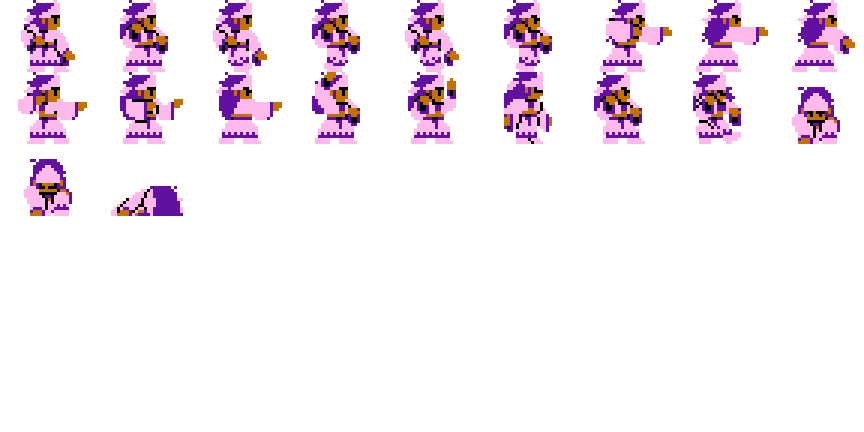
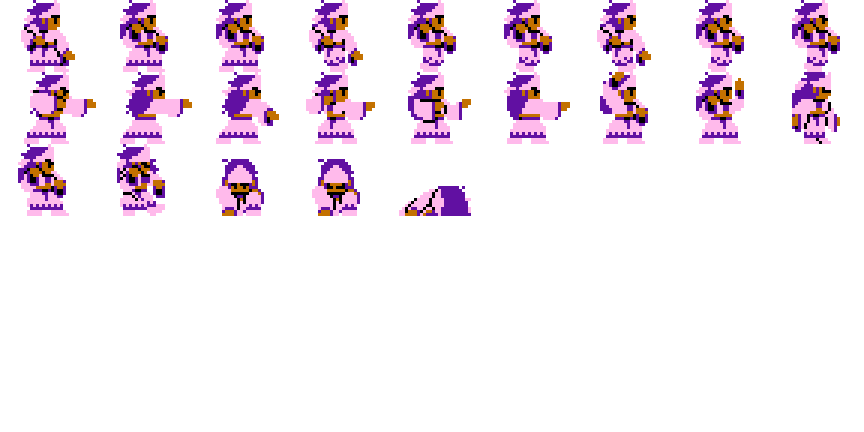
spreadsheets, some new sprites

diff --git a/js/plugins/E9D_RetroFantasy.js b/js/plugins/E9D_RetroFantasy.js
@@ -1617,9 +1617,11 @@
 		switch(this._motionType) {
 		case "wait":
 			if(stance === "low") { if(isFired) { return "waitLowFired"; } return "waitLow"; }
+			else if(stance === "choke") { return "waitChoke"; }
 			break;
 		case "thrust":
 			if(stance === "low") { if(isFired) { return "thrust2HFired"; } return "thrust2H"; }
+			else if(stance === "choke") { return "thrustChoke"; }
 			break;
 		}
 		
@@ -3970,39 +3972,47 @@
 	Sprite_Actor.POSES = {
 		waitLow: { index: 0 },
 		wait: { index: 1 },
-		walkLow: { index: 2 },
-		walk: { index: 3 },
-		chargeLow: { index: 4 },
-		charge: { index: 5 },
-		thrust2H: { index: 6 },
-		thrust: { index: 7 },
-		swing: { index: 8 },
-		bow: { index: 9 },
-		longGun: { index: 10 },
-		handGun: { index: 11 },
-		skill: { index: 12 },
-		item: { index: 13 },
-		victory: { index: 14 },
-		evade: { index: 15 },
-		damage: { index: 16 },
-		abnormal: { index: 17 },
-		sleep: { index: 18 },
-		dead: { index: 19 }
+		waitChoke: { index: 2 },
+		walkLow: { index: 3 },
+		walk: { index: 4 },
+		walkChoke: { index: 5 },
+		chargeLow: { index: 6 },
+		charge: { index: 7 },
+		chargeChoke: { index: 8 },
+		thrust2H: { index: 9 },
+		thrust: { index: 10 },
+		swing: { index: 11 },
+		bow: { index: 12 },
+		longGun: { index: 13 },
+		handGun: { index: 14 },
+		skill: { index: 15 },
+		item: { index: 16 },
+		victory: { index: 17 },
+		evade: { index: 18 },
+		damage: { index: 19 },
+		abnormal: { index: 20 },
+		sleep: { index: 21 },
+		dead: { index: 22 }
 	};
 	
 	Sprite_Actor.MOTIONS = {
 		waitLow: { poses: ["waitLow", "waitLow", "waitLow"], loop: true },
 		waitLowFired: { poses: ["waitLow", "waitLow", "waitLow"], loop: true },
 		wait: { poses: ["wait", "wait", "wait"], loop: true },
+		waitChoke: { poses: ["waitChoke", "waitChoke", "waitChoke"], loop: true },
 		walkLow: { poses: ["walkLow", "waitLow", "walkLow"], loop: true },
 		walkLowFired: { poses: ["walkLow", "waitLow", "walkLow"], loop: true },
 		walk: { poses: ["walk", "wait", "walk"], loop: true },
+		walkChoke: { poses: ["walkChoke", "waitChoke", "walkChoke"], loop: true },
 		thrust2H: { poses: ["chargeLow", "thrust2H", "thrust2H"], loop: false },
 		thrust2HFired: { poses: ["chargeLow", "thrust2H", "thrust2H"], loop: false },
 		thrust: { poses: ["charge", "thrust", "thrust"], loop: false },
+		thrustChoke: { poses: ["chargeChoke", "thrust", "thrust"], loop: false },
 		pommel: { poses: ["charge", "thrust", "thrust"], loop: false },
+		pommelChoke: { poses: ["chargeChoke", "thrust", "thrust"], loop: false },
 		unarmed: { poses: ["charge", "thrust", "thrust"], loop: false },
 		swing: { poses: ["charge", "swing", "swing"], loop: false },
+		swingChoke: { poses: ["chargeChoke", "swing", "swing"], loop: false },
 		swingTwirl: { poses: ["charge", "swing", "swing"], loop: false },
 		swingBow: { poses: ["charge", "swing", "swing"], loop: false },
 		throw: { poses: ["swing", "swing", "swing"], loop: false },
@@ -4349,12 +4359,15 @@
 	Sprite_Actor.prototype.motionTypeIsMelee = function() {
 		return (
 			this._motionType === "swing" ||
+			this._motionType === "swingChoke" ||
 			this._motionType === "swingTwirl" ||
 			this._motionType === "swingBow" ||
 			this._motionType === "thrust" ||
+			this._motionType === "thrustChoke" ||
 			this._motionType === "thrust2H" ||
 			this._motionType === "thrust2HFired" ||
 			this._motionType === "pommel" ||
+			this._motionType === "pommelChoke" ||
 			this._motionType === "unarmed"
 		);
 	};
@@ -4493,8 +4506,27 @@
 	
 	Sprite_Actor.prototype.startMotion = function(motionType) {
 		this.scale.x = motionType === "escape" ? -1 : 1;
-		motionType = motionType === "wait" && this._actor.weaponStance() === "low" ? (this._actor.weaponIsFired() ? "waitLowFired" : "waitLow") : motionType;
-		motionType = motionType === "walk" && this._actor.weaponStance() === "low" ? (this._actor.weaponIsFired() ? "walkLowFired" : "walkLow") : motionType;
+		var weaponStance = this._actor.weaponStance();
+		var weaponIsFired = this._actor.weaponIsFired();
+		if(motionType === "wait") {
+			switch(weaponStance) {
+			case "low":
+				motionType = weaponIsFired ? "waitLowFired" : "waitLow";
+				break;
+			case "choke":
+				motionType = "waitChoke";
+				break;
+			}
+		} else if(motionType === "walk") {
+			switch(weaponStance) {
+			case "low":
+				motionType = weaponIsFired ? "walkLowFired" : "walkLow";
+				break;
+			case "choke":
+				motionType = "walkChoke";
+				break;
+			}
+		}
 		const newMotion = Sprite_Actor.MOTIONS[motionType];
 		if (this._motion !== newMotion) {
 			if(this._motionType === "damage" || this._motionType === "evade") {
@@ -4506,9 +4538,11 @@
 			this._pattern = 0;
 			if(
 				motionType === "walk" ||
+				motionType === "walkChoke" ||
 				motionType === "walkLow" ||
 				motionType === "walkLowFired" ||
 				motionType === "wait" ||
+				motionType === "waitChoke" ||
 				motionType === "waitLow" ||
 				motionType === "waitLowFired" ||
 				motionType === "damage" ||
@@ -4628,7 +4662,8 @@
 		Sprite_Battler.prototype.updateFrame.call(this);
 		const bitmap = this._mainSprite.bitmap;
 		if (bitmap) {
-			const motion = this._motion ? this._motion : (this._actor.weaponStance() === "low" ? Sprite_Actor.MOTIONS.waitLow : Sprite_Actor.MOTIONS.wait);
+			var weaponStance = this._actor.weaponStance();
+			const motion = this._motion ? this._motion : (weaponStance === "low" ? Sprite_Actor.MOTIONS.waitLow : (weaponStance === "choke" ? Sprite_Actor.MOTIONS.waitChoke : Sprite_Actor.MOTIONS.wait));
 			const pattern = this._pattern < 3 ? this._pattern : 1;
 			const poseIndex = Sprite_Actor.POSES[motion.poses[pattern]].index;
 			const cw = bitmap.width / 9;
@@ -5196,12 +5231,15 @@
 	Sprite_Weapon.prototype.motionTypeIsAttack = function() {
 		return (
 			this._motionType === "thrust" ||
+			this._motionType === "thrustChoke" ||
 			this._motionType === "thrust2H" ||
 			this._motionType === "thrust2HFired" ||
 			this._motionType === "swing" ||
+			this._motionType === "swingChoke" ||
 			this._motionType === "swingTwirl" ||
 			this._motionType === "swingBow" ||
 			this._motionType === "pommel" ||
+			this._motionType === "pommelChoke" ||
 			this._motionType === "throw" ||
 			this._motionType === "sling" ||
 			this._motionType === "bow" ||
